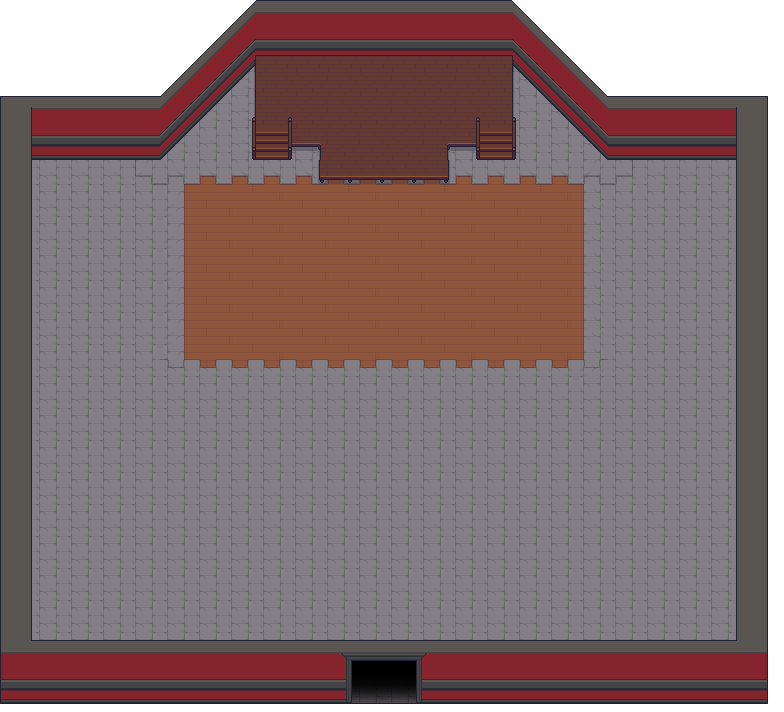
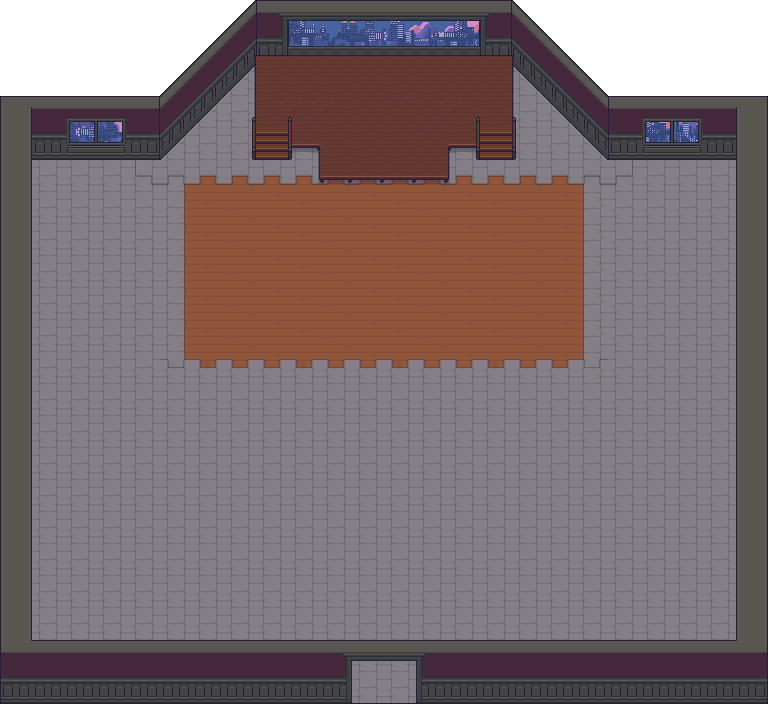
Talent show

diff --git a/maps/custom (internal)/Talent Show/Skyline1x.tsx b/maps/custom (internal)/Talent Show/Skyline1x.tsx
@@ -1,0 +1,4 @@
+<?xml version="1.0" encoding="UTF-8"?>
+<tileset version="1.5" tiledversion="1.7.0" name="Skyline1x" tilewidth="32" tileheight="32" tilecount="75" columns="15">
+ <image source="../../../assets/Skyline1x.PNG" width="500" height="173"/>
+</tileset>
